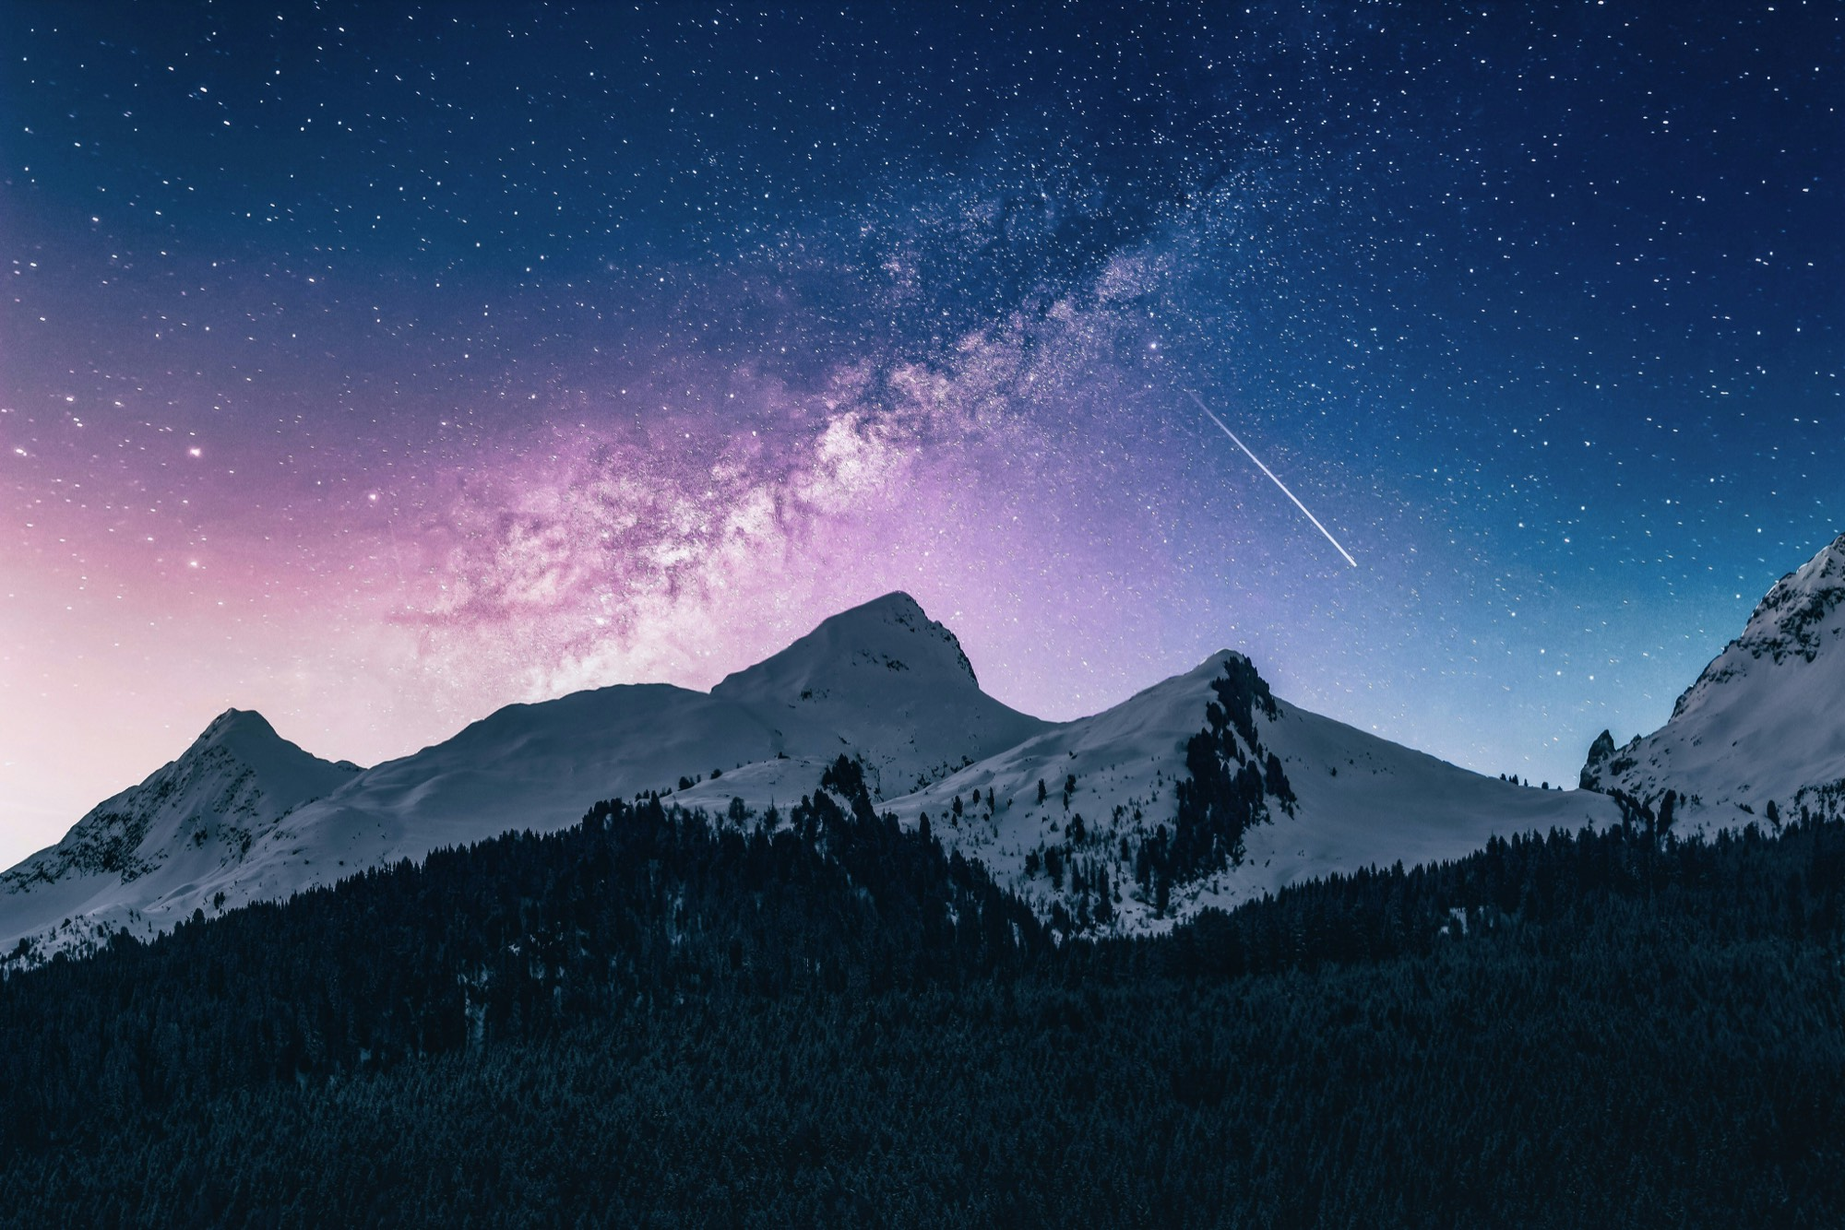
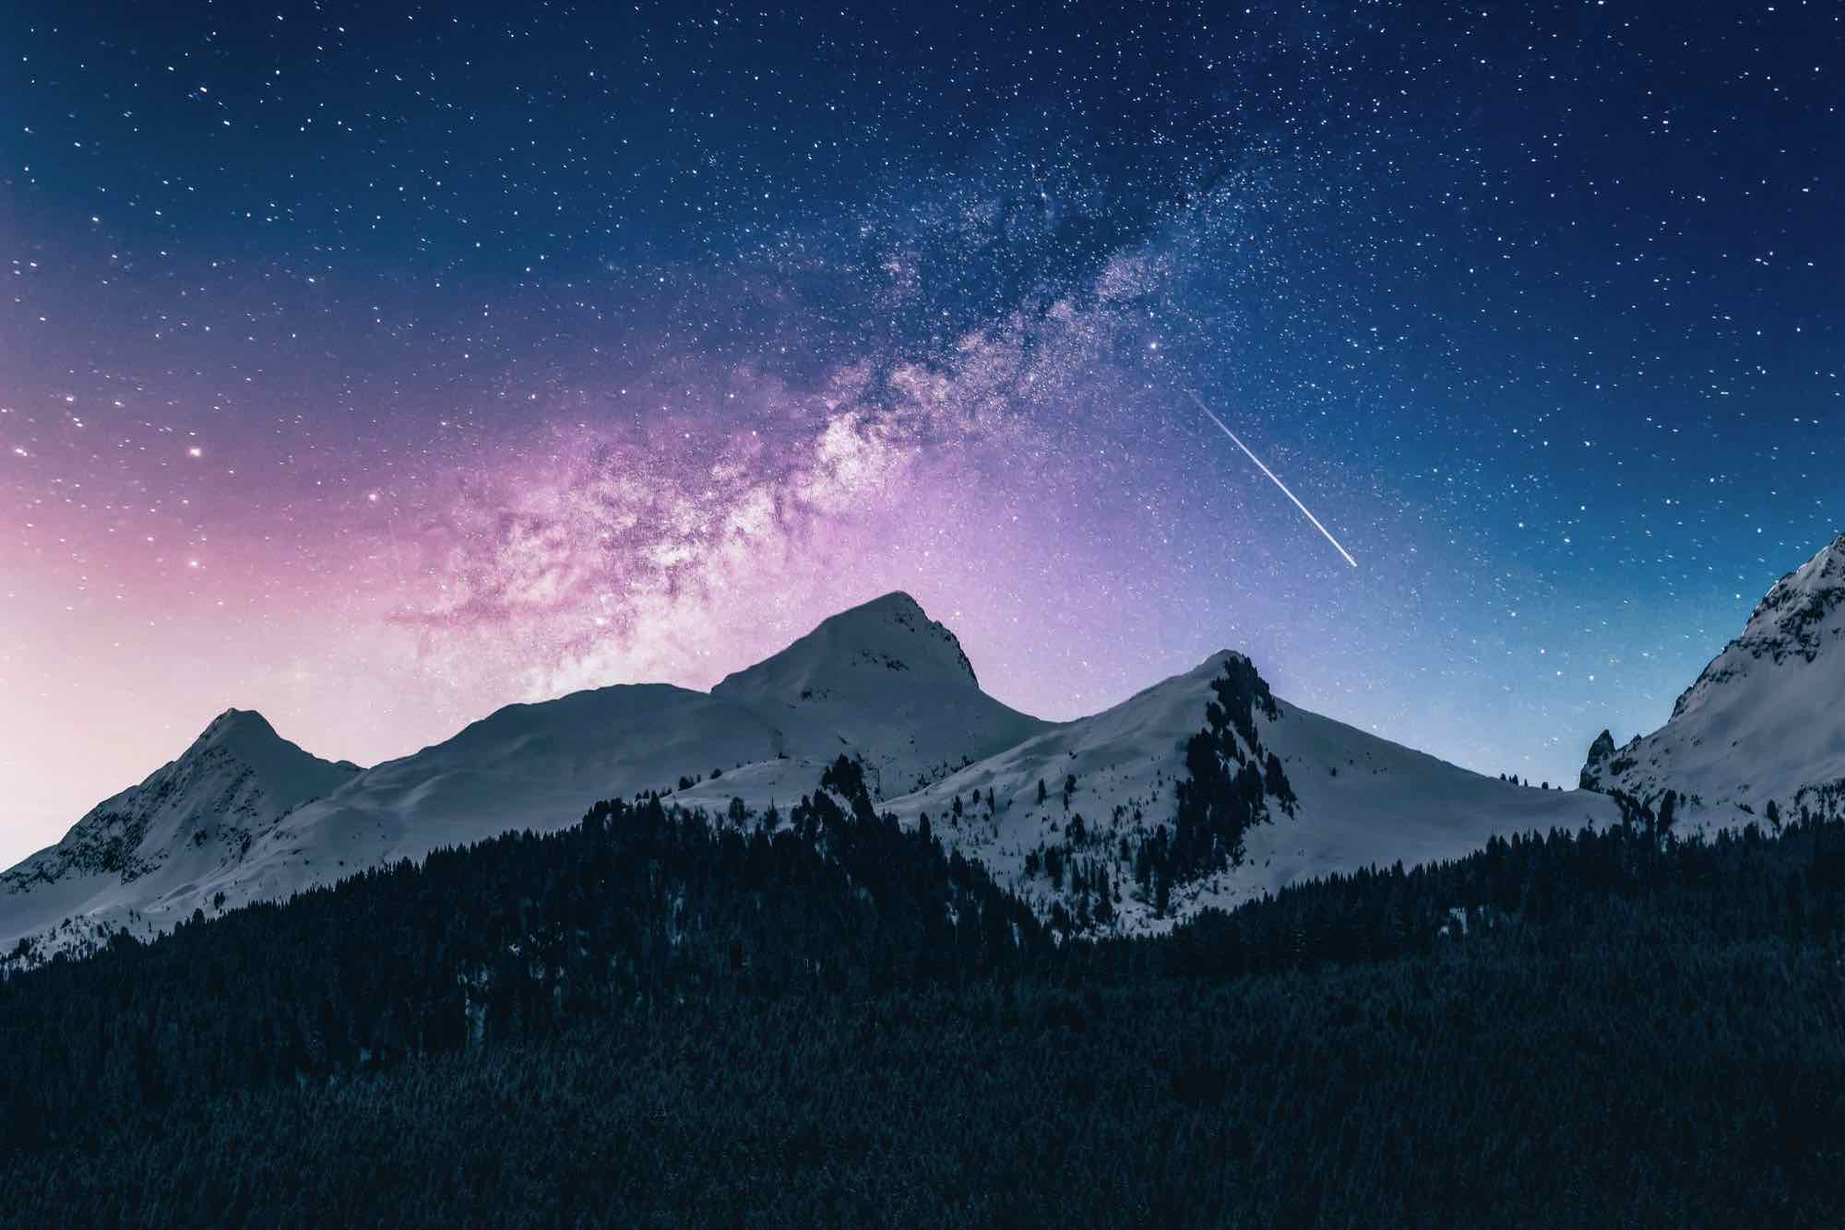
Polish content, add news images and automate sitemap/rebuilds
- Fix university name on Community, tidy Media table, drop textbook
  PDF link from Resources, remove hard-coded "Updated" date on home
- Research: new intro, PhD section first with a plain-language
  summary, talks table driven by _data/talks.yml, consistent headings
- Calendar: add a "meeting" event kind; 2nd EarthCARE Research
  Meeting (25 Nov) uses it
- News items accept optional image/alt fields
- Replace hand-written sitemap.xml with jekyll-sitemap; add a daily
  GitHub Actions Pages rebuild so past events move off "Upcoming"
- Recompress bg, dr and headshot images
- Restore the local preview server config for Homebrew Ruby

Changed region(s): [[0.496, 0.2459, 0.589, 0.3381], [0.589, 0.2151, 0.62, 0.2459], [0.465, 0.3381, 0.496, 0.3688]]

diff --git a/research.html b/research.html
@@ -11,9 +11,15 @@ cv_button: true
 							<section class="post">
 								<header class="major">
 									<h1>Research</h1>
-									<p>These days, I find myself increasingly drawn to multi-messenger astrophysics, particularly in its application to the study of active galactic nuclei. I am intrigued by the potential of computational and statistical techniques in unraveling the mysteries surrounding these fascinating objects.</p>
+									<p>I am fascinated by multi-messenger astrophysics. In my PhD, I work on the calibration of ultra-high-energy cosmic-ray measurements at the Pierre Auger Observatory; before that I studied high-energy gamma-ray and neutrino emission from active galactic nuclei. Throughout, I enjoy using computational and statistical techniques to get the most out of the data.</p>
 								</header>
 
+
+								<h2>PhD Research</h2>
+									<span class="image left"><img src="images/EarthCARE_Auger_geometry.png" width="890" height="1000" alt="Diagram of the EarthCARE satellite's ATLID laser line-of-sight scattering in the atmosphere and being recorded by a Pierre Auger fluorescence detector." loading="lazy" decoding="async" /></span>
+									<p><strong>In short:</strong> the Pierre Auger Observatory measures the most energetic particles in the Universe by recording the faint light they produce as they cross the atmosphere. In my PhD I use laser pulses fired by the EarthCARE satellite, a well-known light source passing overhead, to check how accurately the observatory measures that light, and therefore the energies of cosmic rays.</p>
+									<p>The two largest observatories dedicated to UHECR measurements are the Pierre Auger Observatory (Auger) and the Telescope Array (TA), which have been operating in the Southern and Northern Hemispheres, respectively, for nearly two decades. Despite their similar detection concepts, the Pierre Auger Observatory and the Telescope Array report significant differences in the observed UHECR energy spectrum above approximately 30 EeV. Accurate reconstruction of air-shower properties using fluorescence observations requires precise knowledge of the optical efficiency of the telescopes and the atmospheric conditions.</p>
+									<p>The EarthCARE (Earth Cloud, Aerosol, and Radiation Explorer) satellite is designed to improve our understanding of clouds and aerosols in the Earth's atmosphere. Its onboard Atmospheric Lidar (ATLID) emits laser pulses that have been regularly detected by both the Pierre Auger Observatory and the Telescope Array. These detections establish a unique synergy between satellite-based Earth observation and ground-based astroparticle physics. The observatories benefit from the ATLID laser as a well-characterized, external reference light source for cross-calibration of their energy scales, while simultaneously contributing to satellite validation studies. This doctoral research focuses on the analysis of EarthCARE satellite overpasses detected by the Pierre Auger Observatory.</p>
 
 								<h2 id="talks">Selected Posters &amp; Talks</h2>
 
@@ -27,69 +33,28 @@ cv_button: true
 											</tr>
 										</thead>
 										<tbody>
+											<!-- Rows come from _data/talks.yml (newest first). -->
+{%- for talk in site.data.talks %}
 											<tr>
-												<td><b>Talk</b></td>
-												<td>Observation of EarthCARE Laser Emissions with the Pierre Auger Observatory, International school of Cosmic Ray Astrophysics, Italy.</td>
-												<td>2026</td>
+												<td><strong>{{ talk.type }}</strong></td>
+												<td>{{ talk.title }}</td>
+												<td>{{ talk.year }}</td>
 											</tr>
-											<tr>
-												<td><b>Poster, awarded</b></td>
-												<td>Observations of EarthCARE laser emissions with the Pierre Auger Observatory, 13th KSETA Plenary Workshop, Germany.</td>
-												<td>2026</td>
-											</tr>
-											<tr>
-												<td><b>Talk</b></td>
-												<td>Constraining the High Energy Emission from NGC 1068, VII CI-SoDoFi, Dominican Republic.</td>
-												<td>2026</td>
-											</tr>
-											<tr>
-												<td><b>Poster</b></td>
-												<td>Comparison of SDSS and Gaia QSO data: Searching for anomalies in QSO spectra, 15th SCSLSA, Serbia.</td>
-												<td>2025</td>
-											</tr>
-											<tr>
-												<td><b>Workshop</b></td>
-												<td>Use of Programming for Teaching Astronomy, Astronomy Workshop for Teachers at the Dominican Republic, Online.</td>
-												<td>2024</td>
-											</tr>
-											<tr>
-												<td><b>Talk</b></td>
-												<td>Month of Astronomy in the Dominican Republic, 6th Shaw-IAU Workshop on Astronomy for Education, Online.</td>
-												<td>2024</td>
-											</tr>
-											<tr>
-												<td><b>Panel</b></td>
-												<td>Astronomy for a better world, <a href="https://aas.org/meetings/aas243" target="_blank" rel="noopener noreferrer">American Astronomical Society Winter Meeting</a>, United States.</td>
-												<td>2024</td>
-											</tr>
-											<tr>
-												<td><b>Poster</b></td>
-												<td>The Multi-messenger Astrophysics Approach and the MAGIC Telescopes, <a href="https://indico.ictp.it/event/10190" target="_blank" rel="noopener noreferrer">Giambiagi Winter School on Cosmology</a>, Argentina.</td>
-												<td>2023</td>
-											</tr>
-											<tr>
-												<td><b>Poster</b></td>
-												<td>Study of spiral galaxies and their environment, <a href="https://plancks23.ai-sf.it" target="_blank" rel="noopener noreferrer">PLANCKS</a>, Italy.</td>
-												<td>2023</td>
-											</tr>
+{%- endfor %}
 										</tbody>
 									</table>
 								</div>
-
-								<h2>PhD research</h2>
-									<span class="image left"><img src="images/EarthCARE_Auger_geometry.png" width="890" height="1000" alt="Diagram of the EarthCARE satellite's ATLID laser line-of-sight scattering in the atmosphere and being recorded by a Pierre Auger fluorescence detector." loading="lazy" decoding="async" /></span>
-									<p>The two largest observatories dedicated to UHECR measurements are the Pierre Auger Observatory (Auger) and the Telescope Array (TA), which have been operating in the Southern and Northern Hemispheres, respectively, for nearly two decades. Despite their similar detection concepts, the Pierre Auger Observatory and the Telescope Array report significant differences in the observed UHECR energy spectrum above approximately 30 EeV. Accurate reconstruction of air-shower properties using fluorescence observations requires precise knowledge of the optical efficiency of the telescopes and the atmospheric conditions. The EarthCARE (Earth Cloud, Aerosol, and Radiation Explorer) satellite is designed to improve our understanding of clouds and aerosols in the Earth's atmosphere. Its onboard Atmospheric Lidar (ATLID) emits laser pulses that have been regularly detected by both the Pierre Auger Observatory and the Telescope Array. These detections establish a unique synergy between satellite-based Earth observation and ground-based astroparticle physics. The observatories benefit from the ATLID laser as a well-characterized, external reference light source for cross-calibration of their energy scales, while simultaneously contributing to satellite validation studies. This doctoral research focuses on the analysis of EarthCARE satellite overpasses detected by the Pierre Auger Observatory.</p>
 
 								<h2>Master's Thesis</h2>
 									<span class="image main"><img src="images/MASS-logo.png" width="1065" height="280" alt="Logo of the Erasmus Mundus Joint Master Degree in Astrophysics and Space Science (MASS)." loading="lazy" decoding="async" /></span>
 									<p>In my thesis, I investigate how the upcoming Cherenkov Telescope Array Observatory (CTAO) can test competing high-energy emission models for NGC 1068, the first non-blazar AGN linked to neutrino emission. Using <a href="https://docs.gammapy.org/2.0/index.html" target="_blank" rel="noopener noreferrer">Gammapy</a> simulations of 50, 100 and 150 hour CTAO observations, I compare scenarios driven by starburst activity and AGN-powered winds. The results show that most models are detectable within 100 hours of observation, and by 150 hours CTAO can marginally distinguish between different emission mechanisms. Whether detected or not, these observations will provide powerful constraints on particle acceleration in obscured AGNs and help clarify the origin of neutrinos and gamma rays in Seyfert galaxies.</p>
 
-								<h2>Hanrieder Fellowship Max Planck Institute for Physics</h2>
+								<h2>Hanrieder Fellowship, Max Planck Institute for Physics</h2>
 
 								<span class="image main"><img src="images/Posterior.png" width="1181" height="514" alt="Two-panel figure showing an event position with association probability color scale, and its energy posterior distribution with two peaks." loading="lazy" decoding="async" /></span>
 								<p>During a three month internship, I studied the association probability between the high-energy neutrino event IC170922A and the blazar TXS 0506+056 using Bayesian statistical techniques. We applied two different spectral models—power-law and pγ—to analyze how varying assumptions about the source spectrum affect the probability of a connection between the neutrino event and the blazar. You can read my internship report <a href="https://github.com/tcaba2/Summer-at-MPP/blob/main/Student_Report_Thara_Caba_MPP.pdf" target="_blank" rel="noopener noreferrer">"Bayesian ICECAT Analysis"</a>. This research contributed to the article <a href="https://arxiv.org/abs/2503.04632" target="_blank" rel="noopener noreferrer">"Impact of multi-messenger spectral modelling on blazar-neutrino associations"</a>.</p>
 
-								<h2>Bachelor thesis</h2>
+								<h2>Bachelor's Thesis</h2>
 								<p><a href="https://icecube.wisc.edu/news/research/2016/10/neutrinos-and-gamma-rays-partnership-to-explore-extreme-universe/" target="_blank" rel="noopener noreferrer"><span class="image left"><img src="images/bthesis.jpg" width="1000" height="671" alt="Illustration of cosmic rays, gamma rays, and neutrinos from an astrophysical source. Cosmic rays are deflected by magnetic fields, gamma rays can be absorbed, and neutrinos travel straight to Earth carrying information about their source." loading="lazy" decoding="async" /></span></a>In my research, I investigated the origins of cosmic rays using a multi-messenger approach. The IceCube neutrino observatory identifies astrophysical neutrino candidates in real-time, prompting follow-up observations by telescopes like MAGIC. Analyzing data from the MAGIC telescopes, I calculated gamma-ray flux upper limits from eight neutrino follow-up events using a new software in development by the MAGIC collaboration.</p>
 
 								<h2>Central American - Caribbean Bridge in Astrophysics Remote Internship</h2>

diff --git a/media.html b/media.html
@@ -18,29 +18,29 @@ cv_button: true
 									<table>
 										<thead>
 											<tr>
-												<th>Name</th>
+												<th>Article</th>
 												<th>Year</th>
 											</tr>
 										</thead>
 										<tbody>
 											<tr>
-												<td><a href="https://womeninastronomy.blogspot.com/2024/08/meet-central-american-caribbean.html" target="_blank" rel="noopener noreferrer">Meet Central American-Caribbean Astronomy Bridge Program Fellows - Part 9</a>.</td>
+												<td><a href="https://womeninastronomy.blogspot.com/2024/08/meet-central-american-caribbean.html" target="_blank" rel="noopener noreferrer">Meet Central American-Caribbean Astronomy Bridge Program Fellows - Part 9</a></td>
 												<td>2024</td>
 											</tr>
 											<tr>
-												<td><a href="https://pubs.aip.org/physicstoday/article/77/6/28/3294596/Young-physicists-excited-to-network-through-the" target="_blank" rel="noopener noreferrer">Young physicists excited to network through the International Association of Physics Students</a>.</td>
+												<td><a href="https://pubs.aip.org/physicstoday/article/77/6/28/3294596/Young-physicists-excited-to-network-through-the" target="_blank" rel="noopener noreferrer">Young physicists excited to network through the International Association of Physics Students</a></td>
 												<td>2024</td>
 											</tr>
 											<tr>
-												<td><a href="https://naroad.astro4dev.org/2024/02/" target="_blank" rel="noopener noreferrer">The Women and Girls in Astronomy Program makes strides at the 243rd American Astronomical Society Meeting</a>.</td>
+												<td><a href="https://naroad.astro4dev.org/2024/02/" target="_blank" rel="noopener noreferrer">The Women and Girls in Astronomy Program makes strides at the 243rd American Astronomical Society Meeting</a></td>
 												<td>2024</td>
 											</tr>
 											<tr>
-												<td><a href="https://iaps.info/2023/06/14/an-interview-with-thara-caba-iaps-secretary/" target="_blank" rel="noopener noreferrer">An Interview with Thara Caba, IAPS Secretary</a>.</td>
+												<td><a href="https://iaps.info/2023/06/14/an-interview-with-thara-caba-iaps-secretary/" target="_blank" rel="noopener noreferrer">An Interview with Thara Caba, IAPS Secretary</a></td>
 												<td>2023</td>
 											</tr>
 											<tr>
-												<td><a href="https://hoy.com.do/ministerio-juventud-entrega-becas-idelisa-bonnelly/" target="_blank" rel="noopener noreferrer">Ministerio Juventud entrega becas Idelisa Bonnelly.</a></td>
+												<td><a href="https://hoy.com.do/ministerio-juventud-entrega-becas-idelisa-bonnelly/" target="_blank" rel="noopener noreferrer">Ministerio Juventud entrega becas Idelisa Bonnelly</a></td>
 												<td>2021</td>
 											</tr>
 										</tbody>

diff --git a/assets/css/custom.css b/assets/css/custom.css
@@ -117,6 +117,41 @@
 	margin-bottom: 0.35rem;
 }
 
+/* optional picture beside a news item */
+.news-list li.has-image {
+	display: flex;
+	gap: 1.25rem;
+	align-items: flex-start;
+}
+
+.news-list li.has-image .news-image {
+	order: 2;
+	flex: 0 0 9rem;
+	width: 9rem;
+	height: 6.5rem;
+	object-fit: cover;
+	border-radius: 6px;
+}
+
+.news-list li.has-image .news-body {
+	flex: 1 1 auto;
+	min-width: 0;
+}
+
+@media screen and (max-width: 480px) {
+	.news-list li.has-image {
+		flex-direction: column;
+		gap: 0.75rem;
+	}
+	.news-list li.has-image .news-image {
+		order: 0;
+		flex-basis: auto;
+		width: 100%;
+		height: auto;
+		max-height: 14rem;
+	}
+}
+
 .news-more {
 	font-family: 'Source Sans Pro', Helvetica, sans-serif;
 	font-weight: 600;
@@ -309,6 +344,10 @@
 .timeline > li[data-kind="visit"] .tl-card { border-left-color: #8a94a6; }
 .timeline > li[data-kind="visit"] .tl-tag { background: rgba(138, 148, 166, 0.18); color: #5b6472; }
 
+.timeline > li[data-kind="meeting"]::before { background: #e0607a; }
+.timeline > li[data-kind="meeting"] .tl-card { border-left-color: #e0607a; }
+.timeline > li[data-kind="meeting"] .tl-tag { background: rgba(224, 96, 122, 0.16); color: #a3283f; }
+
 .timeline-empty {
 	background: rgba(210, 215, 217, 0.18);
 	border: dashed 1px rgba(210, 215, 217, 0.9);
@@ -351,4 +390,9 @@
 	aspect-ratio: 350 / 450;
 	object-fit: cover;
 	margin: auto;
+}
+
+/* Research page: start the talks table below the floated PhD figure */
+#talks {
+	clear: both;
 }

diff --git a/index.html b/index.html
@@ -12,7 +12,6 @@ google_site_verification: true
 						<!-- Featured Post -->
 							<article class="post featured">
 								<header class="major">
-									<span class="date"> Updated September 2026 </span>
 									<h2>About me</h2>
 
 									<img src="images/headshot.jpg" class="image fit headshot" width="350" height="450" alt="Thara Caba smiling in front of the Effelsberg radio telescope." fetchpriority="high" decoding="async" />
@@ -23,7 +22,7 @@ google_site_verification: true
 									 Institute of Technology. I recently finished a master's degree in Astrophysics and Space Science (MASS) funded by an Erasmus Mundus Joint Master scholarship. 
 									 This program is delivered by a consortium of four universities. I attended the University of Rome "Tor Vergata" and the University of
 									 Belgrade as part of my studies. Originally from the Dominican Republic, I obtained my bachelor's degree in Physics from the Autonomous University of Santo Domingo. I am interested in
-									 multi-messenger astrophysics, statistics and coding. <b>You can find more about me in my <a href="images/TharaCabaCV.pdf" target="_blank" rel="noopener noreferrer">CV</a></b>.</p>
+									 multi-messenger astrophysics, statistics and coding. <strong>You can find more about me in my <a href="images/TharaCabaCV.pdf" target="_blank" rel="noopener noreferrer">CV</a></strong>.</p>
 
 
 							</article>

diff --git a/community.html b/community.html
@@ -34,10 +34,10 @@ cv_button: true
 								<h2>Other volunteer positions</h2>
 
 								<ul>
-									<li><b>KSETA Fellow Representative,</b> Karlsruhe School of Elementary Particle and Astroparticle Physics: Science and Technology, 2026 - present.</li>
-									<li><b>Social Media Manager,</b> Dominican Physical Society, 2023 - present.</li>
-									<li><b>Teaching Committee Student Representative,</b> Erasmus Mundus Joint Master degree in Astrophysics and Space Science, 2023 - 2024.</li>
-									<li><b>President,</b> Association of Physics Students of the Autonomous University of Physics Students, 2020.</li>
+									<li><strong>KSETA Fellow Representative,</strong> Karlsruhe School of Elementary Particle and Astroparticle Physics: Science and Technology, 2026 - present.</li>
+									<li><strong>Social Media Manager,</strong> Dominican Physical Society, 2023 - present.</li>
+									<li><strong>Teaching Committee Student Representative,</strong> Erasmus Mundus Joint Master degree in Astrophysics and Space Science, 2023 - 2024.</li>
+									<li><strong>President,</strong> Association of Physics Students of the Autonomous University of Santo Domingo, 2020.</li>
 								</ul>
 
 							</section>

diff --git a/resources.html b/resources.html
@@ -17,7 +17,6 @@ cv_button: true
 								<h2>Statistics</h2>
 								<ul>
 									<li><a href="https://www.probabilitycourse.com" target="_blank" rel="noopener noreferrer">Introduction to Probability, Statistics, and Random Processes by Hossein Pishro-Nik.</a></li>
-									<li><a href="https://faculty.ksu.edu.sa/sites/default/files/677_fr37hij.pdf" target="_blank" rel="noopener noreferrer">Probability and Statistical Inference by Hogg, Tanis, Zimmerman.</a></li>
 									<li><a href="https://seeing-theory.brown.edu/index.html" target="_blank" rel="noopener noreferrer">Seeing Theory.</a> A visual introduction to probability and statistics.</li>
 								</ul>
 

diff --git a/_includes/news-list.html b/_includes/news-list.html
@@ -7,9 +7,14 @@
 {%- assign limit = include.limit | default: 1000 %}
 								<ul class="news-list">
 {%- for item in items limit: limit %}
-									<li>
-										<span class="news-date">{{ item.date }}</span>
-										{{ item.text }}
+									<li{% if item.image %} class="has-image"{% endif %}>
+{%- if item.image %}
+										<img class="news-image" src="{{ page.root }}{{ item.image }}" alt="{{ item.alt }}" loading="lazy" decoding="async" />
+{%- endif %}
+										<div class="news-body">
+											<span class="news-date">{{ item.date }}</span>
+											{{ item.text }}
+										</div>
 									</li>
 {%- endfor %}
 								</ul>

diff --git a/privacy.html b/privacy.html
@@ -3,6 +3,7 @@ layout: "default"
 title: "Privacy &amp; Cookies — Thara Caba"
 description: "Privacy and cookie notice for tcaba2.github.io."
 robots: "noindex, follow"
+sitemap: false
 ---
 
 						<!-- Post -->

diff --git a/404.html b/404.html
@@ -3,6 +3,7 @@ layout: "default"
 title: "Page not found — Thara Caba"
 canonical: false
 robots: "noindex"
+sitemap: false
 root: "/"
 permalink: "/404.html"
 ---
